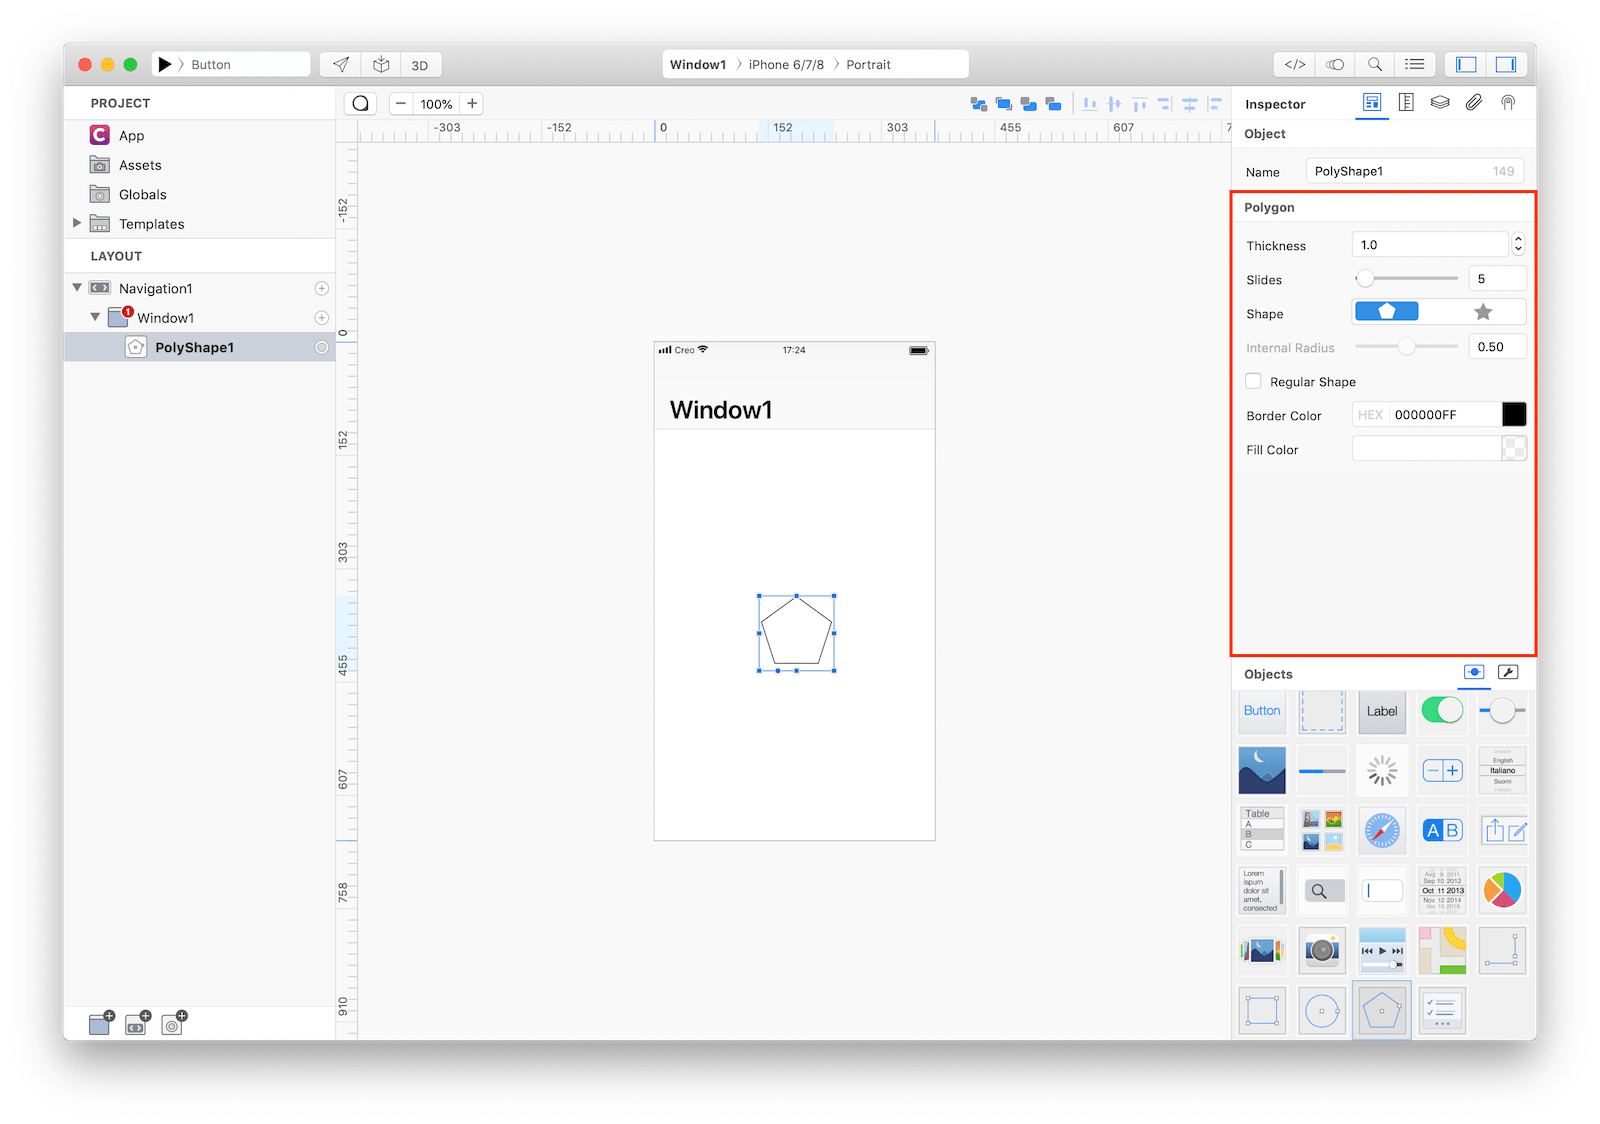
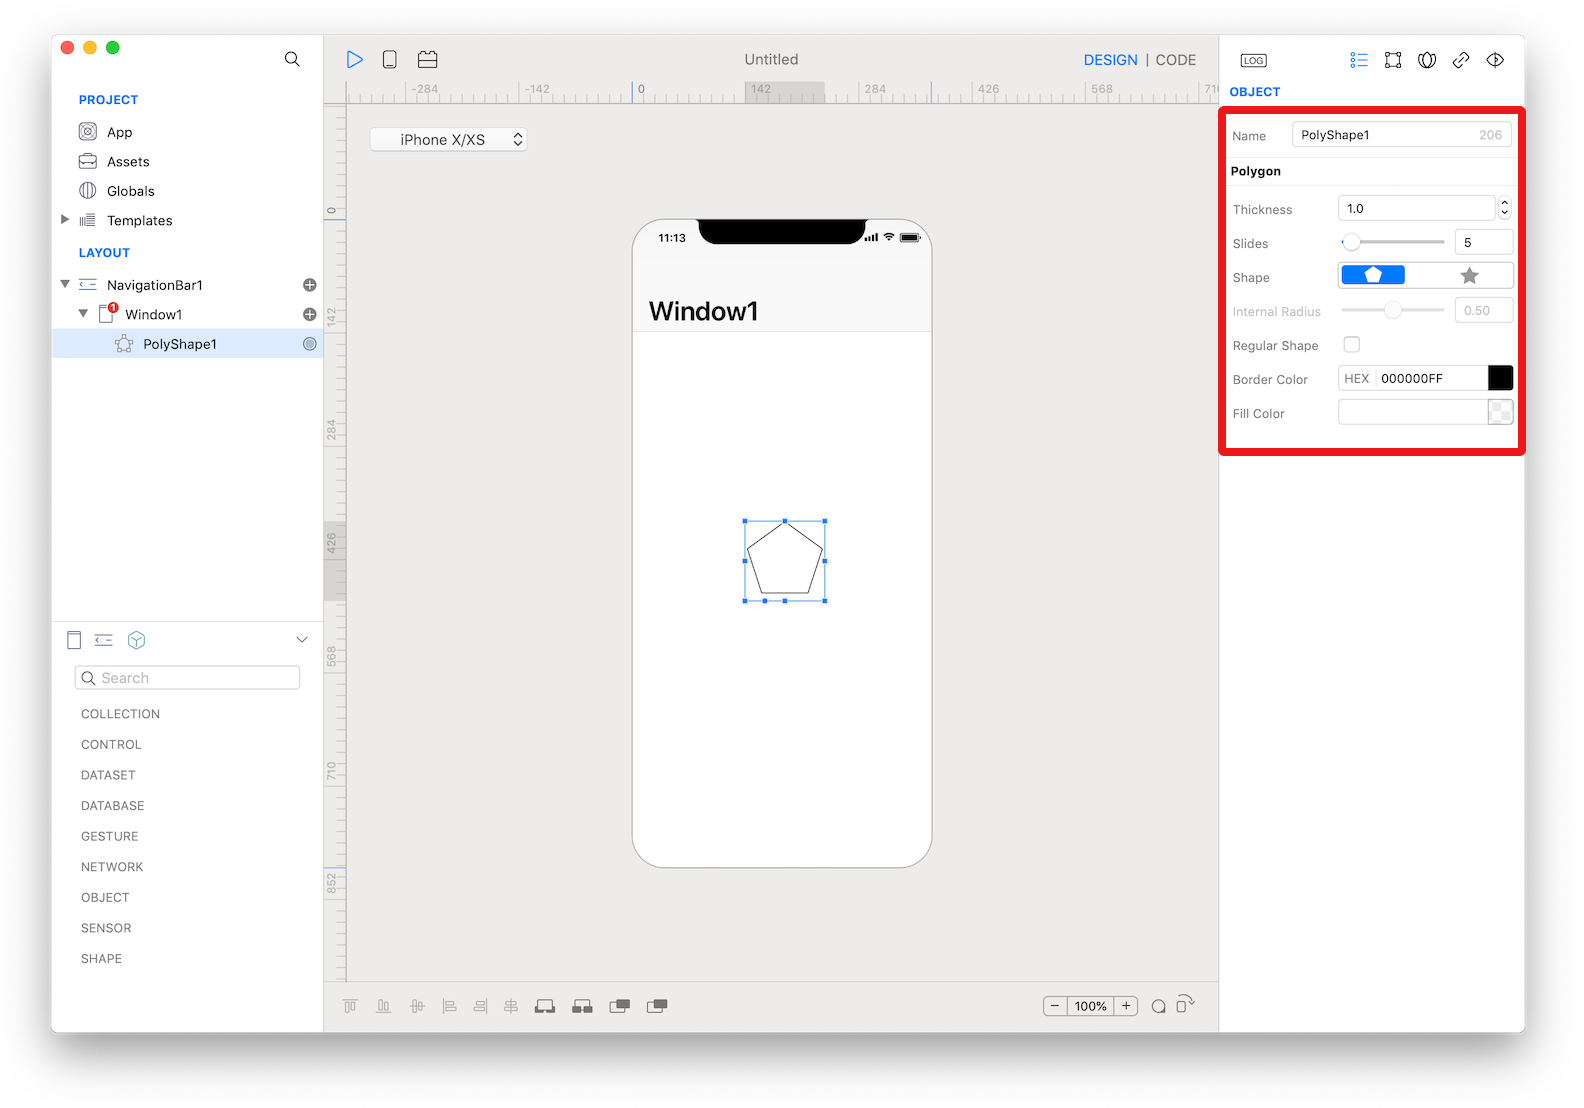
Updated PolyShape for Creo2

diff --git a/docs/creo/PolyShape.md b/docs/creo/PolyShape.md
@@ -1,17 +1,17 @@
 Represents a polygon shape (or a star shape).
 
-![PolyShape](../images/creo/polyshape1.png)
+![PolyShape](../images/creo2/polyshape1.png)
 
 ### How to use
 1. Drop a `PolyShape` control from the object panel to a `Window`
 2. Use the `PolyShape Inspector` to customize its properties like `Thickness`, `Slides`, `Shape` and `Border Color`
 
-![`PolyShape` inspector](../images/creo/polyshape2.png)
+![`PolyShape` inspector](../images/creo2/polyshape2.png)
 The inspector where the `PolyShape` class can be configured.
 
 ### Example
 1. Drop a `Button` control from the object panel to a `Window`
-2. Open the `Code Editor` (cmd + 6)
+2. Open the `Code Editor`
 3. Select the `Action` item inside the `Events` area and write your custom code in the `Code Editor`
 ```
 PolyShape1.sides = 6
